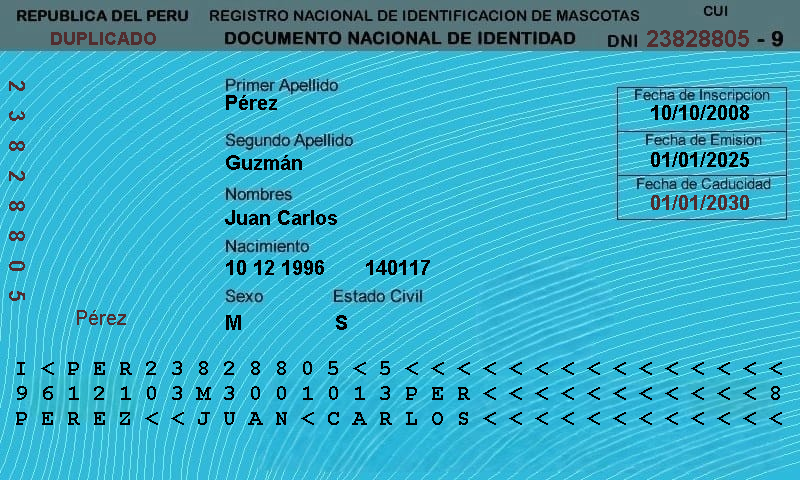
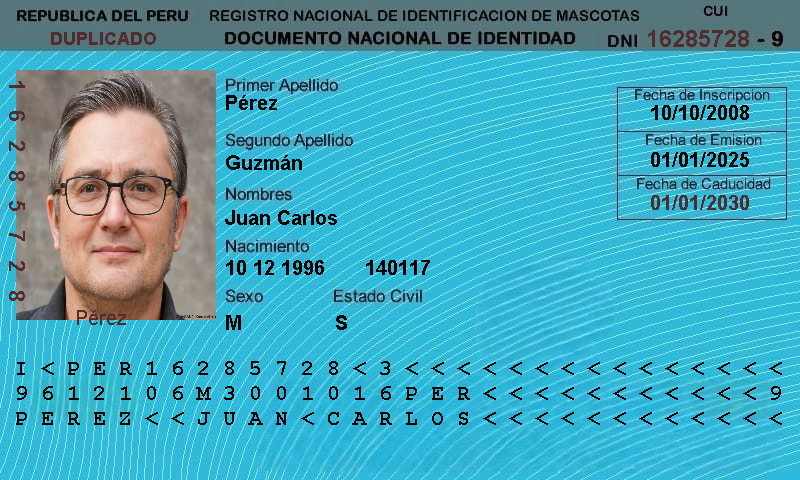
chore: PersonImageClient implemented, resized and positioned in DNI doc

diff --git a/src/main/java/com/etlions/ms_cv_identity_doc/core/util/TemplateConstants.java b/src/main/java/com/etlions/ms_cv_identity_doc/core/util/TemplateConstants.java
@@ -1,0 +1,141 @@
+package com.etlions.ms_cv_identity_doc.core.util;
+
+
+import java.awt.image.BufferedImage;
+import java.io.ByteArrayInputStream;
+import java.io.ByteArrayOutputStream;
+import java.io.IOException;
+import java.io.InputStream;
+import java.io.UncheckedIOException;
+import javax.imageio.ImageIO;
+
+public final class TemplateConstants {
+
+    // Standard dimensions (public constants)
+    public static final int DNI_PHOTO_WIDTH = 200;  // 35mm at 300 DPI
+    public static final int DNI_PHOTO_HEIGHT = 250;
+
+    // Image storage
+    private static final byte[] TEMPLATE_BYTES;
+    private static final BufferedImage TEMPLATE_IMAGE;
+    private static final String TEMPLATE_FORMAT = "PNG";
+
+    static {
+        try {
+            // Load and validate template during class initialization
+            TEMPLATE_BYTES = loadResourceAsBytes("/doc-template/mask/dni-mask.png");
+            TEMPLATE_IMAGE = convertToBufferedImage(TEMPLATE_BYTES);
+            validateTemplateDimensions(TEMPLATE_IMAGE);
+        } catch (IOException e) {
+            throw new UncheckedIOException("Failed to load DNI template", e);
+        }
+    }
+
+    // PUBLIC API ===============================================
+
+    /**
+     * Gets a copy of the template image for manipulation
+     */
+    public static BufferedImage getTemplateImage() {
+        return copyImage(TEMPLATE_IMAGE);
+    }
+
+    /**
+     * Gets a copy of the template as byte array
+     */
+    public static byte[] getTemplateBytes() {
+        return TEMPLATE_BYTES.clone();
+    }
+
+    // PRIVATE HELPERS ==========================================
+
+    private static byte[] loadResourceAsBytes(String resourcePath) throws IOException {
+        try (InputStream is = TemplateConstants.class.getResourceAsStream(resourcePath)) {
+            if (is == null) {
+                throw new IOException("Template resource not found: " + resourcePath);
+            }
+
+            ByteArrayOutputStream buffer = new ByteArrayOutputStream();
+            byte[] data = new byte[8192];
+            int bytesRead;
+
+            while ((bytesRead = is.read(data, 0, data.length)) != -1) {
+                buffer.write(data, 0, bytesRead);
+            }
+
+            return buffer.toByteArray();
+        }
+    }
+
+    private static BufferedImage convertToBufferedImage(byte[] imageData) throws IOException {
+        try (ByteArrayInputStream bais = new ByteArrayInputStream(imageData)) {
+            BufferedImage image = ImageIO.read(bais);
+            if (image == null) {
+                throw new IOException("Unsupported image format");
+            }
+            return image;
+        }
+    }
+
+    private static void validateTemplateDimensions(BufferedImage image) {
+        if (image.getWidth() < DNI_PHOTO_WIDTH || image.getHeight() < DNI_PHOTO_HEIGHT) {
+            throw new IllegalStateException(String.format(
+                    "Template must be at least %dx%d pixels",
+                    DNI_PHOTO_WIDTH, DNI_PHOTO_HEIGHT
+            ));
+        }
+    }
+
+    private static BufferedImage copyImage(BufferedImage source) {
+        // Optimized copy for common image types
+        if (source.getType() == BufferedImage.TYPE_INT_ARGB ||
+                source.getType() == BufferedImage.TYPE_INT_RGB) {
+            return new BufferedImage(
+                    source.getColorModel(),
+                    source.copyData(null),
+                    source.isAlphaPremultiplied(),
+                    null
+            );
+        }
+
+        // Fallback for other image types
+        BufferedImage copy = new BufferedImage(
+                source.getWidth(),
+                source.getHeight(),
+                source.getType()
+        );
+        copy.getGraphics().drawImage(source, 0, 0, null);
+        return copy;
+    }
+
+    // CONVERSION UTILITIES =====================================
+
+    /**
+     * Converts byte array to BufferedImage (unchecked exception)
+     */
+    public static BufferedImage bytesToImage(byte[] imageData) {
+        try {
+            return convertToBufferedImage(imageData);
+        } catch (IOException e) {
+            throw new UncheckedIOException(e);
+        }
+    }
+
+    /**
+     * Converts BufferedImage to byte array (unchecked exception)
+     */
+    public static byte[] imageToBytes(BufferedImage image) {
+        try (ByteArrayOutputStream baos = new ByteArrayOutputStream()) {
+            ImageIO.write(image, TEMPLATE_FORMAT, baos);
+            return baos.toByteArray();
+        } catch (IOException e) {
+            throw new UncheckedIOException(e);
+        }
+    }
+
+    // PREVENT INSTANTIATION ====================================
+
+    private TemplateConstants() {
+        throw new AssertionError("TemplateConstants is a utility class and cannot be instantiated");
+    }
+}

diff --git a/src/main/java/com/etlions/ms_cv_identity_doc/core/generator/DNIBufferedGenerator.java b/src/main/java/com/etlions/ms_cv_identity_doc/core/generator/DNIBufferedGenerator.java
@@ -1,6 +1,10 @@
 package com.etlions.ms_cv_identity_doc.core.generator;
 import com.etlions.ms_cv_identity_doc.core.loader.DNISampleDataLoader;
 import com.etlions.ms_cv_identity_doc.core.model.DNIDataModel;
+import com.etlions.ms_cv_identity_doc.core.util.TemplateConstants;
+import lombok.RequiredArgsConstructor;
+import org.springframework.boot.CommandLineRunner;
+import org.springframework.stereotype.Component;
 
 import javax.imageio.ImageIO;
 import java.awt.*;
@@ -15,13 +19,15 @@ import java.util.stream.Collectors;
 
 import static com.etlions.ms_cv_identity_doc.core.util.Constant.*;
 
-public class DNIBufferedGenerator {
+@Component
+@RequiredArgsConstructor
+public class DNIBufferedGenerator implements CommandLineRunner {
 
     private static final Random RANDOM = new Random();
     private static final String OUTPUT_DIR = "dataset/";
-    private static final DNISampleDataLoader dniSampleDataLoader = new DNISampleDataLoader();
+    private final DNISampleDataLoader dniSampleDataLoader;
 
-    public static void generateDniImages(String dniType, int amount) throws Exception {
+    private void generateDniImages(String dniType, int amount) throws Exception {
 
         DNIDataModel dniDataModel = dniSampleDataLoader.loadSingleSampleData();
 
@@ -58,7 +64,7 @@ public class DNIBufferedGenerator {
             Graphics2D g2d = imagen.createGraphics();
             g2d.drawImage(plantilla, 0, 0, null);
 
-            // Dibujar texto en posiciones específicas (ajusta según la plantilla)
+
 
 
             /* ABOVE SECTION */
@@ -74,6 +80,9 @@ public class DNIBufferedGenerator {
             g2d.drawString(dniDataModel.getDni(), 646, 47);
 
             /* MID LEFT SECTION */
+
+            g2d.drawImage(TemplateConstants.bytesToImage(dniDataModel.getPhoto1()) , 16, 70, null);
+
             g2d.setFont(new Font("Arial", Font.BOLD, 22));
             AffineTransform originalTransform = g2d.getTransform();
             g2d.rotate(Math.toRadians(90), 9, 80);
@@ -83,7 +92,7 @@ public class DNIBufferedGenerator {
             g2d.setTransform(originalTransform);
 
             g2d.setFont(new Font("Arial", Font.PLAIN, 20));
-            g2d.drawString(dniDataModel.getFirstLastName(), 75, 325);
+            g2d.drawString(dniDataModel.getFirstLastName(), 75, 325);   // TODO: Dibujar texto en posiciones específicas (ajusta según la plantilla)
 
             g2d.setFont(new Font("Arial", Font.BOLD, 20));
             g2d.setColor(Color.BLACK);
@@ -120,8 +129,18 @@ public class DNIBufferedGenerator {
         }
     }
 
-    public static void main(String[] args) throws Exception {
-        // Ejemplo: generar 1000 imágenes de DNI AZUL
-        generateDniImages("AZUL", 1);
+//    public static void main(String[] args) throws Exception {
+//        // Ejemplo: generar 1000 imágenes de DNI AZUL
+//        generateDniImages("AMARILLO", 1);
+//    }
+
+
+    @Override
+    public void run(String... args) throws Exception {
+        try {
+            generateDniImages("AZUL", 1);
+        } catch (Exception e) {
+            throw new RuntimeException(e);
+        }
     }
 }

diff --git a/src/main/java/com/etlions/ms_cv_identity_doc/core/loader/DNISampleDataLoader.java b/src/main/java/com/etlions/ms_cv_identity_doc/core/loader/DNISampleDataLoader.java
@@ -1,20 +1,42 @@
 package com.etlions.ms_cv_identity_doc.core.loader;
 
 import com.etlions.ms_cv_identity_doc.core.model.DNIDataModel;
+import com.etlions.ms_cv_identity_doc.core.util.TemplateConstants;
+import com.etlions.ms_cv_identity_doc.infrastructure.openfeign.clients.PersonImageClient;
+import lombok.RequiredArgsConstructor;
+import lombok.extern.slf4j.Slf4j;
+import org.springframework.stereotype.Component;
 
+import java.awt.*;
+import java.awt.image.BufferedImage;
 import java.time.LocalDate;
 import java.util.Random;
 
+@Component
+@RequiredArgsConstructor
+@Slf4j
 public class DNISampleDataLoader {
 
-    public DNISampleDataLoader() {
-    }
+    private final PersonImageClient personImageClient;
 
     public DNIDataModel loadSingleSampleData() {
+
+        long startTime = System.currentTimeMillis();
+        byte[] personImage = personImageClient.getRandomPersonImage();
+        long endTime = System.currentTimeMillis();
+        log.info("Tiempo de respuesta de la API de imágenes: {} ms", (endTime - startTime) / 1000.0);
+
+        BufferedImage originalImage = TemplateConstants.bytesToImage(personImage);
+
+        BufferedImage resizedImage = resizeImage(originalImage, TemplateConstants.DNI_PHOTO_WIDTH, TemplateConstants.DNI_PHOTO_HEIGHT);
+
+        byte[] resizedImageBytes = TemplateConstants.imageToBytes(resizedImage);
+
         return DNIDataModel.builder()
                 .isDuplicate(true)
                 .dni(String.format("%08d", new Random().nextInt(100000000)))
                 .verifierCode("2")
+                .photo1(resizedImageBytes)
                 .firstLastName("Pérez")
                 .secondLastName("Guzmán")
                 .firstName("Juan")
@@ -27,5 +49,20 @@ public class DNISampleDataLoader {
                 .emissionDate(LocalDate.of(2025, 1, 1))
                 .expirationDate(LocalDate.of(2030, 1, 1))
                 .build();
+    }
+
+    private BufferedImage resizeImage(BufferedImage original, int targetWidth, int targetHeight) {
+        BufferedImage resized = new BufferedImage(targetWidth, targetHeight, BufferedImage.TYPE_INT_RGB);
+        Graphics2D g2d = resized.createGraphics();
+
+        // Configuración de calidad
+        g2d.setRenderingHint(RenderingHints.KEY_INTERPOLATION, RenderingHints.VALUE_INTERPOLATION_BILINEAR);
+        g2d.setRenderingHint(RenderingHints.KEY_RENDERING, RenderingHints.VALUE_RENDER_QUALITY);
+
+        // Dibuja la imagen redimensionada
+        g2d.drawImage(original, 0, 0, targetWidth, targetHeight, null);
+        g2d.dispose();
+
+        return resized;
     }
 }

diff --git a/src/main/java/com/etlions/ms_cv_identity_doc/infrastructure/openfeign/config/FeignConfig.java b/src/main/java/com/etlions/ms_cv_identity_doc/infrastructure/openfeign/config/FeignConfig.java
@@ -1,0 +1,22 @@
+package com.etlions.ms_cv_identity_doc.infrastructure.openfeign.config;
+
+import com.etlions.ms_cv_identity_doc.core.exception.ImageFetchException;
+import feign.Retryer;
+import feign.codec.ErrorDecoder;
+import org.springframework.context.annotation.Bean;
+import org.springframework.context.annotation.Configuration;
+
+@Configuration
+public class FeignConfig {
+
+    @Bean
+    public Retryer retryer() {
+        return new Retryer.Default(1000, 2000, 3); // Retry: 1s, 2s, 3 intentos
+    }
+
+    @Bean
+    public ErrorDecoder errorDecoder() {
+        return (methodKey, response) ->
+                new ImageFetchException("Error al obtener imagen: " + response.status());
+    }
+}

diff --git a/src/main/java/com/etlions/ms_cv_identity_doc/infrastructure/openfeign/clients/PersonImageClient.java b/src/main/java/com/etlions/ms_cv_identity_doc/infrastructure/openfeign/clients/PersonImageClient.java
@@ -1,0 +1,18 @@
+package com.etlions.ms_cv_identity_doc.infrastructure.openfeign.clients;
+
+import com.etlions.ms_cv_identity_doc.infrastructure.openfeign.config.FeignConfig;
+import org.springframework.cloud.openfeign.FeignClient;
+import org.springframework.http.MediaType;
+import org.springframework.web.bind.annotation.GetMapping;
+
+import java.util.Optional;
+
+@FeignClient(
+        name = "personImageClient",
+        url = "https://thispersondoesnotexist.com",
+        configuration = FeignConfig.class
+)
+public interface PersonImageClient {
+    @GetMapping(value = "/", produces = MediaType.IMAGE_JPEG_VALUE)
+    byte[] getRandomPersonImage();
+}

diff --git a/src/main/java/com/etlions/ms_cv_identity_doc/MsCvIdentityDocApplication.java b/src/main/java/com/etlions/ms_cv_identity_doc/MsCvIdentityDocApplication.java
@@ -3,8 +3,10 @@ package com.etlions.ms_cv_identity_doc;
 import nu.pattern.OpenCV;
 import org.springframework.boot.SpringApplication;
 import org.springframework.boot.autoconfigure.SpringBootApplication;
+import org.springframework.cloud.openfeign.EnableFeignClients;
 
 @SpringBootApplication
+@EnableFeignClients(basePackages = "com.etlions.ms_cv_identity_doc.infrastructure.openfeign")
 public class MsCvIdentityDocApplication {
 
 	public static void main(String[] args) {

diff --git a/src/main/java/com/etlions/ms_cv_identity_doc/application/GenerateDocumentDataSetBusiness.java b/src/main/java/com/etlions/ms_cv_identity_doc/application/GenerateDocumentDataSetBusiness.java
@@ -1,0 +1,11 @@
+package com.etlions.ms_cv_identity_doc.application;
+
+import com.etlions.ms_cv_identity_doc.application.usecase.GenerateCEUseCase;
+import com.etlions.ms_cv_identity_doc.application.usecase.GenerateDNIUseCase;
+import com.etlions.ms_cv_identity_doc.application.usecase.GeneratePassportUseCase;
+
+public interface GenerateDocumentDataSetBusiness extends
+        GenerateDNIUseCase,
+        GeneratePassportUseCase,
+        GenerateCEUseCase {
+}

diff --git a/src/main/java/com/etlions/ms_cv_identity_doc/core/util/Constant.java b/src/main/java/com/etlions/ms_cv_identity_doc/core/util/Constant.java
@@ -5,9 +5,11 @@ import java.time.format.DateTimeFormatter;
 public class Constant {
 
     public static final DateTimeFormatter DNI_DETAIL_DATE_FORMATTER = DateTimeFormatter.ofPattern("dd/MM/yyyy");
-
     public static final DateTimeFormatter DNI_BIRTH_DATE_FORMATTER = DateTimeFormatter.ofPattern("dd MM yyyy");
 
+    private Constant() {
+        throw new AssertionError("Clase de constantes no debe ser instanciada");
+    }
 }
 
 

diff --git a/src/main/java/com/etlions/ms_cv_identity_doc/application/impl/GenerateDocumentDataSetBusinessImpl.java b/src/main/java/com/etlions/ms_cv_identity_doc/application/impl/GenerateDocumentDataSetBusinessImpl.java
@@ -1,6 +1,6 @@
-package com.etlions.ms_cv_identity_doc.business.impl;
+package com.etlions.ms_cv_identity_doc.application.impl;
 
-import com.etlions.ms_cv_identity_doc.business.GenerateDocumentDataSetBusiness;
+import com.etlions.ms_cv_identity_doc.application.GenerateDocumentDataSetBusiness;
 import lombok.AllArgsConstructor;
 import lombok.extern.slf4j.Slf4j;
 import org.springframework.stereotype.Service;

diff --git a/src/main/java/com/etlions/ms_cv_identity_doc/infrastructure/openapi/GenerateOpenApiAdapter.java b/src/main/java/com/etlions/ms_cv_identity_doc/infrastructure/openapi/GenerateOpenApiAdapter.java
@@ -1,4 +1,4 @@
-package com.etlions.ms_cv_identity_doc.openapi;
+package com.etlions.ms_cv_identity_doc.infrastructure.openapi;
 
 import com.etlions.openapicodegen.api.v1.GenerateApi;
 import com.etlions.openapicodegen.dto.GenerateDNIRequest;

diff --git a/src/main/java/com/etlions/ms_cv_identity_doc/application/DetectDocumentBusiness.java b/src/main/java/com/etlions/ms_cv_identity_doc/application/DetectDocumentBusiness.java
@@ -1,0 +1,7 @@
+package com.etlions.ms_cv_identity_doc.application;
+
+import com.etlions.ms_cv_identity_doc.application.usecase.DetectDocumentUseCase;
+
+public interface DetectDocumentBusiness extends
+        DetectDocumentUseCase {
+}

diff --git a/src/main/java/com/etlions/ms_cv_identity_doc/core/exception/ImageFetchException.java b/src/main/java/com/etlions/ms_cv_identity_doc/core/exception/ImageFetchException.java
@@ -1,0 +1,7 @@
+package com.etlions.ms_cv_identity_doc.core.exception;
+
+public class ImageFetchException extends RuntimeException {
+    public ImageFetchException(String message) {
+        super(message);
+    }
+}
